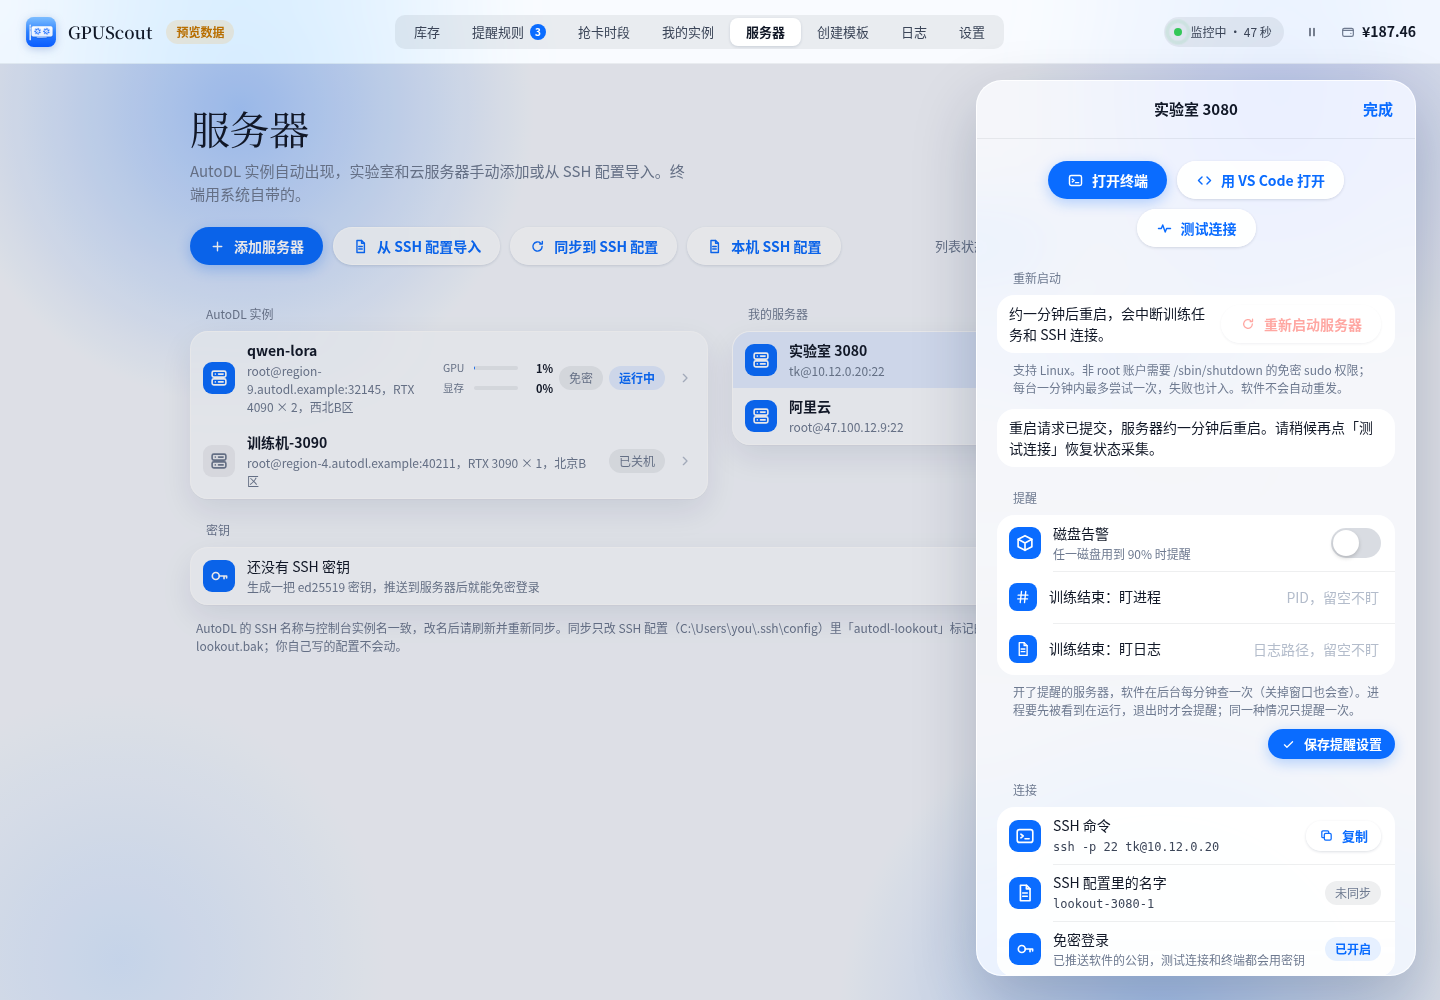
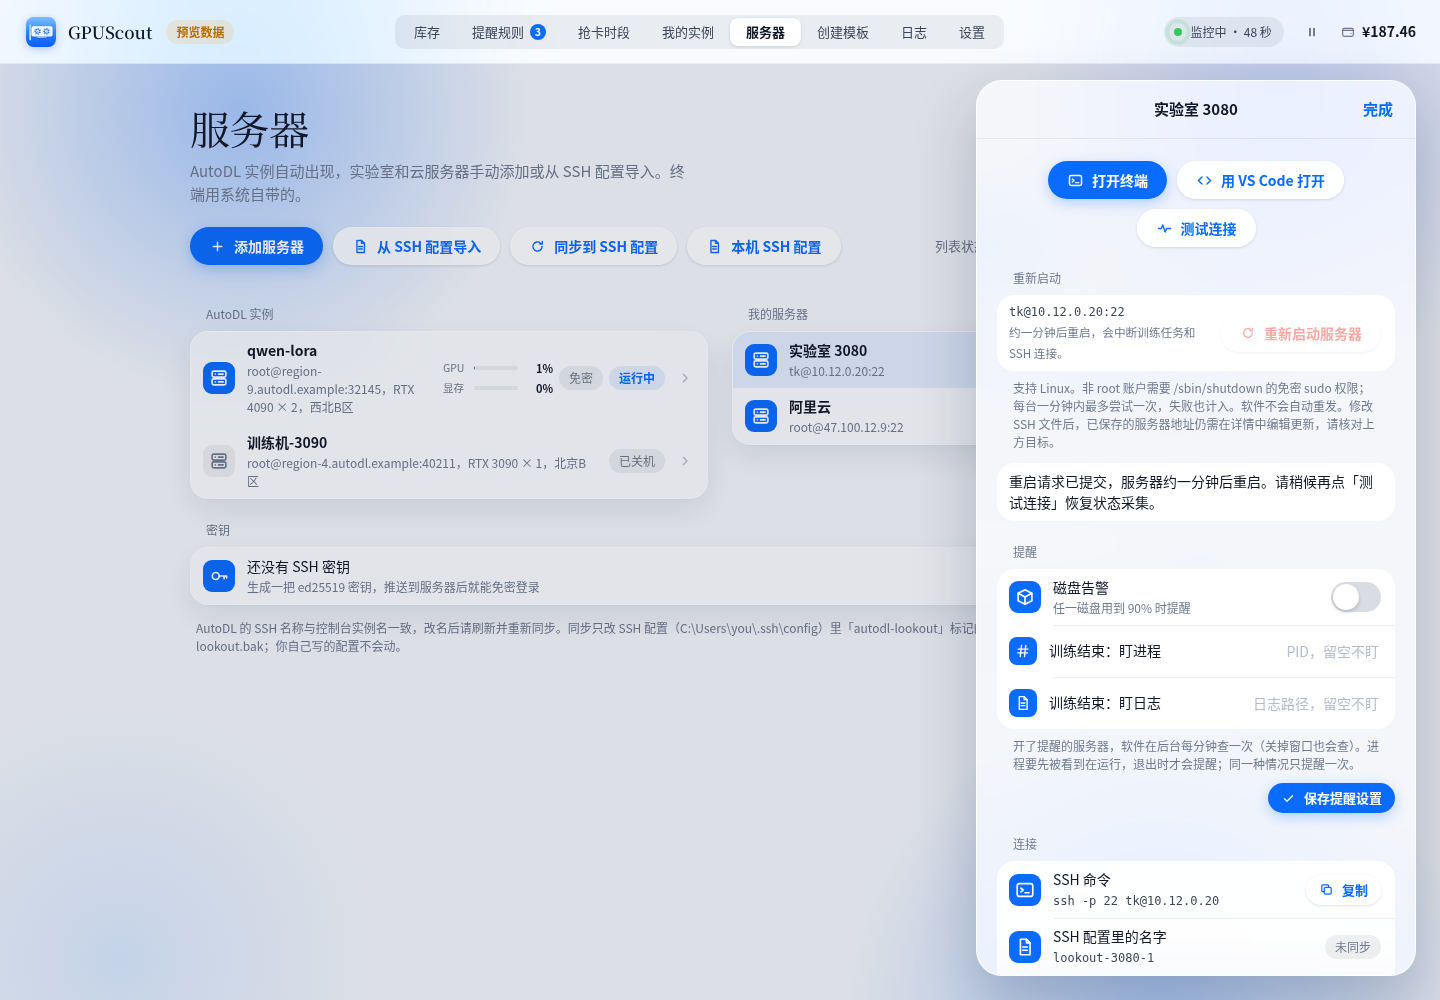
fix: 重启确认前显示实际连接目标
提示手动 SSH 配置编辑不会改写已保存的服务器地址，避免误认目标。

diff --git a/src/ServerRestartControls.tsx b/src/ServerRestartControls.tsx
@@ -1,22 +1,22 @@
 import { useEffect, useState } from "react";
-import { call, type RestartResult } from "./api";
+import { call, type RestartResult, type ServerView } from "./api";
 import { ConfirmButton, Group, useAction } from "./ui";
 
-export function ServerRestartControls({ id, paused, onPaused }: { id: string; paused: boolean; onPaused: () => void }) {
+export function ServerRestartControls({ server, paused, onPaused }: { server: Pick<ServerView, "id" | "host" | "port" | "user">; paused: boolean; onPaused: () => void }) {
   const { busy, run } = useAction();
   const [result, setResult] = useState<RestartResult | null>(null);
   useEffect(() => { if (!paused) setResult(null); }, [paused]);
   const restart = async () => {
-    const r = await run(() => call<RestartResult>("restart_server", { id }));
+    const r = await run(() => call<RestartResult>("restart_server", { id: server.id }));
     if (r) { setResult(r); onPaused(); }
   };
   return <>
     <div className="group-label">重新启动</div>
     <Group><div className="group-row" style={{ gap: 12, flexWrap: "wrap" }}>
-      <span className="grow">约一分钟后重启，会中断训练任务和 SSH 连接。</span>
+      <div className="grow"><div className="kv-code">{server.user}@{server.host}:{server.port}</div><small className="muted">约一分钟后重启，会中断训练任务和 SSH 连接。</small></div>
       <ConfirmButton icon="refresh" label="重新启动服务器" confirmLabel="会中断任务，再点确认重启" disabled={busy || paused} onConfirm={restart} />
     </div></Group>
-    <div className="group-foot">支持 Linux。非 root 账户需要 /sbin/shutdown 的免密 sudo 权限；每台一分钟内最多尝试一次，失败也计入。软件不会自动重发。</div>
+    <div className="group-foot">支持 Linux。非 root 账户需要 /sbin/shutdown 的免密 sudo 权限；每台一分钟内最多尝试一次，失败也计入。软件不会自动重发。修改 SSH 文件后，已保存的服务器地址仍需在详情中编辑更新，请核对上方目标。</div>
     {result && <Group style={{ marginTop: 12 }}><div className={`group-row ${result.status === "unknown" ? "err-text" : ""}`} role="status">{result.message}</div></Group>}
   </>;
 }

diff --git a/src/pages/Servers.tsx b/src/pages/Servers.tsx
@@ -231,7 +231,7 @@ function Detail({ v, list, onChanged, onEdit, live, setLive }: { v: ServerView; 
       </div>
       {noSsh && <div className="group-foot" style={{ textAlign: "center" }}>这台实例还没有 SSH 信息，开机后再来。</div>}
       <ServerPowerControls key={v.id} server={v} onChanged={onChanged} />
-      {v.kind === "custom" && <ServerRestartControls id={v.id} paused={restarting} onPaused={() => { setProbe(null); setRestarting(true); }} />}
+      {v.kind === "custom" && <ServerRestartControls server={v} paused={restarting} onPaused={() => { setProbe(null); setRestarting(true); }} />}
 
       <AnimatePresence>
         {probe && (

diff --git a/README.md b/README.md
@@ -127,7 +127,7 @@ npm run tauri dev
 - 重名或无法检查的配置不会被部分覆盖。支持检查静态 Include；动态路径、循环、过深/过大的 Include 或无法读取的文件会明确提示并暂停同步。自动同步错误也会显示在服务器页，修复后可重新同步。
 - 服务器页同步 SSH 配置时只改 `~/.ssh/config` 里 `# >>> autodl-lookout >>>` 到 `# <<< autodl-lookout <<<` 之间的内容，改之前备份成 `config.autodl-lookout.bak`；软件的密钥在 `~/.ssh/autodl_lookout_ed25519`；服务器密码存系统钥匙串
 - 服务器页的「本机 SSH 配置」可预览、编辑主文件，显式保存前独立备份到同目录的 `config.gpuscout.<时间>.bak`，保留原文件权限；文件不存在时可创建。若编辑期间文件被外部程序或自动同步修改，会拒绝覆盖并保留编辑内容，请先复制需要的内容再重新加载合并。自动同步仍只改管理段，手动编辑管理段会被下次同步覆盖；Include 引用文件需单独维护。只支持最多 1 MiB 的 UTF-8 普通文件，符号链接请用本机编辑器处理，不会执行配置中的命令或读取私钥；保存后请自行确认 SSH 语法和连接正常。
-- 「我的服务器」详情可二次确认重新启动 Linux 服务器，使用 `/sbin/shutdown -r +1`，约一分钟后重启，会中断训练任务和 SSH 连接；非 root 账户需要此命令的免密 `sudo` 权限（软件使用 `sudo -n`，不代填密码或修改权限）。每台一分钟最多尝试一次，失败也记录。请求只提交一次，明确结果才提示“已提交”，断线或结果不完整提示“无法确认”，请先通过终端检查、勿立即重复操作；实时采集会暂停，稍候点「测试连接」成功后恢复。AutoDL 实例请使用开关机功能。
+- 「我的服务器」详情可二次确认重新启动 Linux 服务器，使用 `/sbin/shutdown -r +1`，约一分钟后重启，会中断训练任务和 SSH 连接；非 root 账户需要此命令的免密 `sudo` 权限（软件使用 `sudo -n`，不代填密码或修改权限）。每台一分钟最多尝试一次，失败也记录。请求只提交一次，明确结果才提示“已提交”，断线或结果不完整提示“无法确认”，请先通过终端检查、勿立即重复操作；实时采集会暂停，稍候点「测试连接」成功后恢复。AutoDL 实例请使用开关机功能。重启使用详情显示的已保存连接目标；手动修改 SSH 文件不会改写已保存的服务器记录，如修改地址、端口或用户，请同时编辑服务器连接信息，先核对目标再重启。
 - 服务器详情的实时刷新在服务器上起一个常驻采集循环（2 秒一帧，复用同一条 SSH 连接），关掉面板、最小化或隐藏窗口就停，远程循环最多跑 30 分钟自动退出；列表状态只在「服务器」页开着时每 10 秒采集一次（AutoDL 实例只采运行中的，最多同时 4 台，单台出错退避）。两项都在「设置 → 服务器」里，关掉就不连服务器采集
 - 服务器提醒只对打开了的服务器生效，后台每分钟用 SSH 跑一次采集脚本（`sh -c`，不受登录 shell 影响），出错退避到 10 分钟；同一种情况只提醒一次
 - 库存按单卡统计，多卡机器不一定能开出来；点开卡型看「单机 ≥ N 卡」的机器数
